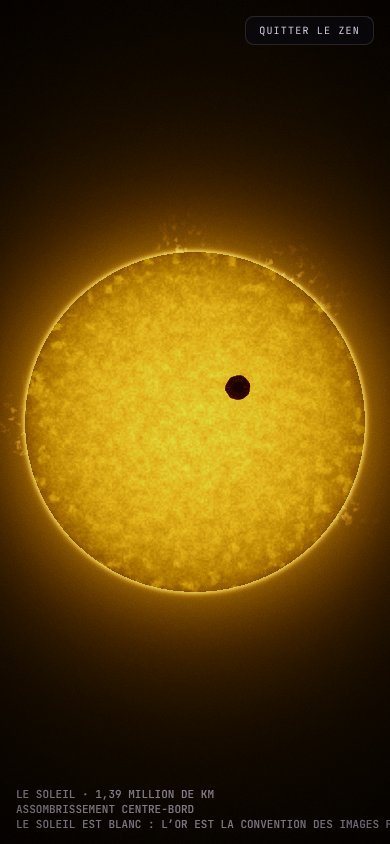
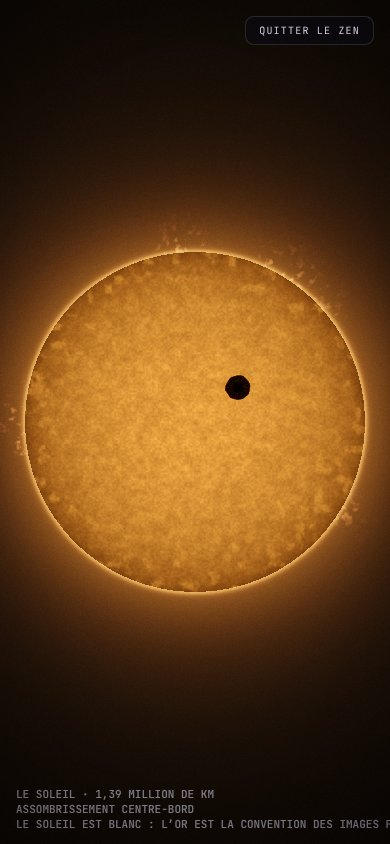
Lave : protubérances « 5 000 à 10 000 °C » à l'écran (Kurt), Soleil réglé en vraies couleurs ; captures sans le filtre PSYCHÉ
Légende et outil OBSERVER : protubérances bien plus froides que la couronne
(plus d'un million de degrés) ; le halo est nommé auréole (lumière
diffusée), la couronne ne se voit qu'aux éclipses. Étiquettes de
l'OBSERVER sur fond sombre, à la ligne sur écran étroit. Le gain du disque
revient à 1,0 : réglé jusqu'ici à travers le filtre PSYCHÉ du shell adulte
(+22 % de saturation, ±16° de teinte), il paraissait abricot terne en
vraies couleurs. Captures de recette refaites sans le filtre.

Claude-Session: https://claude.ai/code/session_01MS9d5JmMjbNw1P1jiRQA2y

diff --git a/app/js/machines/s-lave.js b/app/js/machines/s-lave.js
@@ -434,12 +434,12 @@ void main(){
       I *= smoothstep(1., .995, rr);
     }
     // comme les images des observatoires : une luminance colorisée par une palette or (brun, orange, or pâle)
-    float Y = clamp(I * (zoom > .5 ? .6 : 1.12), 0., 1.5);          // vue d'ensemble : centre or pâle, bord orangé (une boule, pas une assiette)
+    float Y = clamp(I * (zoom > .5 ? .6 : 1.), 0., 1.5);            // vue d'ensemble : centre or, bord orangé et plus sombre (une boule, pas une assiette)
     col = vecInv(min(vec3(Y * Y, .51 * Y * Y * Y, .08 * pow(Y, 5.)), vec3(.97)));
   }
   if (zoom < .5 && rr > .99){
     float e = rr - 1., ang = atan(q.y, q.x);
-    // la chromosphère : un liseré rose ; des protubérances : flammes et arches de gaz (vers 10 000 °C) au bord du disque,
+    // la chromosphère : un liseré rose ; des protubérances : flammes et arches de gaz (environ 5 000 à 10 000 °C) au bord du disque,
     // regroupées autour de quelques régions actives
     float chro = exp(-max(e, 0.) * 110.);
     float pmask = smoothstep(.55, .85, vnoise(vec2(ang * 3.2 + 1.7, 3.)));
@@ -853,6 +853,7 @@ void main(){
       { color: '#cc2010', name: 'Plaque chaude', role: 'cellules de Bénard', desc: 'Chauffé par le bas, un liquide reste immobile tant que l’écart de température est faible, puis s’organise d’un coup en rouleaux réguliers.' },
       { color: '#ffd27a', name: 'Granule solaire', role: '~1 000 km · 10 minutes', desc: 'Du gaz à 6 000 °C monte au centre de chaque granule, se refroidit en surface et replonge dans les couloirs sombres.' },
       { color: '#7a4a20', name: 'Tache solaire', role: 'champ magnétique intense', desc: 'Le champ magnétique y bloque la convection : la surface refroidit à 3 500 °C et paraît noire par contraste.' },
+      { color: '#ff6a3c', name: 'Protubérance', role: 'environ 5 000 à 10 000 °C', desc: 'Des flammes et des arches de gaz tenues par le champ magnétique, au bord du disque. Elles sont bien plus froides que la couronne autour d’elles, à plus d’un million de degrés : personne ne sait encore tout à fait pourquoi la couronne est si chaude.' },
     ],
     about: [
       'L’Anglais Edward Craven Walker invente la lampe à lave en 1963, après avoir vu dans un pub un minuteur d’œuf fait de cire dans un liquide. La recette exacte reste secrète, mais le principe est connu : une cire à peine plus dense que le liquide à température ambiante, mais qui se dilate davantage en chauffant. Quand elle dépasse la température d’équilibre, la poussée d’Archimède l’emporte et elle monte ; arrivée en haut, loin de l’ampoule, elle refroidit et redescend.',
@@ -1212,7 +1213,12 @@ void main(){
         if (yk > 3.1 * Math.pow(Math.max(1 - Math.abs(xk) / 9, 0), 1.25)) return cfg.magma === 'visqueux' ? ['Panache', 'cendres : du magma pulvérisé par ses gaz, refroidi en verre', '#c8c8c8'] : ['Fontaine de lave', 'basalte à environ 1 150 °C : jaune-orange, puis rouge en refroidissant', '#ffb070'];
         return ['Roche', yk > 0 ? 'couches de laves et de cendres des éruptions passées' : 'roches et sédiments sous la plaine', '#c8b8a0'];
       }
-      if (cfg.scene === 'soleil') return l.x && Math.hypot(l.x - view().cx, l.y - H / 2) > Math.min(view().w, H) * 0.44 && !cfg.zoom ? ['Couronne', 'l’atmosphère du Soleil, à plus d’un million de degrés', '#ffb070'] : ['Granulation', 'gaz chaud qui monte au centre des granules (≈ 6 000 °C), plus froid dans les couloirs sombres', '#ffd27a'];
+      if (cfg.scene === 'soleil') {
+        const R = Math.min(view().w, H) * 0.44, d = l.x ? Math.hypot(l.x - view().cx, l.y - H / 2) / R : 0;
+        if (!cfg.zoom && d > 1.0 && d < 1.12) return ['Protubérance', 'gaz à environ 5 000 à 10 000 °C, bien plus froid que la couronne autour, à plus d’un million de degrés', '#ff6a3c'];
+        if (!cfg.zoom && d >= 1.12) return ['Auréole', 'de la lumière diffusée (dans l’instrument et dans l’air) ; la vraie couronne, l’atmosphère du Soleil à plus d’un million de degrés, ne se voit qu’aux éclipses', '#ffb070'];
+        return ['Granulation', 'gaz chaud qui monte au centre des granules (≈ 6 000 °C), plus froid dans les couloirs sombres', '#ffd27a'];
+      }
       const m = l.m;
       if (!m || m.m[0] > 0.5) return ['Verre', 'paroi de la bouteille', '#c8c8c8'];
       const wax = m.s[0] > 0 && cfg.scene === 'lampe', Tc = cfg.scene === 'lampe' ? 20 + m.s[1] * 45 : 20 + m.s[1] * 30, vy = m.v[1];
@@ -1229,9 +1235,19 @@ void main(){
       const side = label.x > v.x0 + v.w * 0.5 ? -1 : 1, lx = label.x + side * 40, ly = label.y < 70 ? label.y + 46 : label.y - 36;
       ctx.save(); ctx.globalAlpha = a; ctx.strokeStyle = col; ctx.lineWidth = 1;
       ctx.beginPath(); ctx.arc(label.x, label.y, 11, 0, TAU); ctx.stroke();
+      // un fond sombre sous le texte : il reste lisible même posé sur le disque doré du Soleil ou sur la lave ;
+      // la description passe à la ligne au-delà d'une largeur raisonnable (téléphone)
+      ctx.font = 'italic 500 14px "Space Grotesk", sans-serif'; const w1 = ctx.measureText(name).width;
+      ctx.font = '500 9.5px "JetBrains Mono", monospace';
+      const maxW = Math.min(v.w * 0.62, 420), lines = [];
+      let cur = '';
+      for (const wd of role.toUpperCase().split(' ')) { const nx = cur ? cur + ' ' + wd : wd; if (cur && ctx.measureText(nx).width > maxW) { lines.push(cur); cur = wd; } else cur = nx; }
+      if (cur) lines.push(cur);
+      const bw = Math.max(w1, ...lines.map((t) => ctx.measureText(t).width)) + 16;
+      ctx.fillStyle = 'rgba(6,6,12,.62)'; ctx.fillRect(side > 0 ? lx - 8 : lx - bw + 8, ly - 16, bw, 26 + lines.length * 12);
       ctx.shadowColor = 'rgba(0,0,0,.9)'; ctx.shadowBlur = 6; ctx.textAlign = side > 0 ? 'left' : 'right';
       ctx.fillStyle = 'rgba(250,250,245,.96)'; ctx.font = 'italic 500 14px "Space Grotesk", sans-serif'; ctx.fillText(name, lx, ly);
-      ctx.fillStyle = col; ctx.font = '500 9.5px "JetBrains Mono", monospace'; ctx.fillText(role.toUpperCase(), lx, ly + 15);
+      ctx.fillStyle = col; ctx.font = '500 9.5px "JetBrains Mono", monospace'; lines.forEach((t, i) => ctx.fillText(t, lx, ly + 15 + i * 12));
       ctx.restore();
     }
 

diff --git a/docs/rendu/RENDU-A.md b/docs/rendu/RENDU-A.md
@@ -127,3 +127,6 @@ Retours de la recette (« un enfant de 5 ans dirait-il c'est moche ? »), repris
   - Réseau : les étiquettes des arbres ne se chevauchent plus (une rangée de plus quand deux se touchent, texte court sur écran étroit).
   - Ronds de sorcières : l'herbe de l'anneau, plus haute et plus drue, a un côté au soleil et un côté dans son ombre (du relief au lieu d'un aplat), et sa bande verte est un peu plus franche.
 - **Hors de mon périmètre** : le mode PSYCHÉ, actif par défaut (`shell.js`), fait tourner la teinte de ±16° et décale toutes les couleurs. La qualité l'a signalé à Kurt.
+- **Captures et couleurs (13/11, fin d'après-midi)** : Kurt l'a signalé, le shell adulte (`app/index.html`) applique au canvas le filtre PSYCHÉ, actif par défaut : saturation +22 %, contraste +4 %, teinte qui oscille de ±16° en une minute. Toutes mes captures passaient par lui. L'application unique (l'artefact de Yoann) ne l'a pas. Mes scripts de capture le neutralisent désormais (`canvas { filter: none !important }`), et les captures de cette page ont été refaites **en vraies couleurs** : Soleil (entier, téléphone, gros plan), Foudre (orage, haute atmosphère), Lucioles (bureau, téléphone), Turing (sombre, clair, Atlas), volcan effusif, abeilles, lampe, Mycélium. Ce que le filtre m'avait caché : le Soleil entier, que j'avais éclairci vers l'or pâle, paraissait abricot terne en vraies couleurs. Son gain revient à 1,0 : un or franc, et un bord orangé nettement plus sombre. Le « guépard olive » d'hier venait aussi du filtre.
+- **Le Soleil, textes** (relecture de Kurt) : une entrée « Protubérance » dans la légende (« environ 5 000 à 10 000 °C, bien plus froides que la couronne autour, à plus d'un million de degrés »). L'outil OBSERVER la nomme au bord du disque ; plus loin, il nomme l'**auréole**, de la lumière diffusée, et précise que la vraie couronne ne se voit qu'aux éclipses (avant, il appelait ce halo « couronne »). Les étiquettes de l'OBSERVER ont un fond sombre, qui les garde lisibles sur le disque doré, et passent à la ligne sur écran étroit.
+
